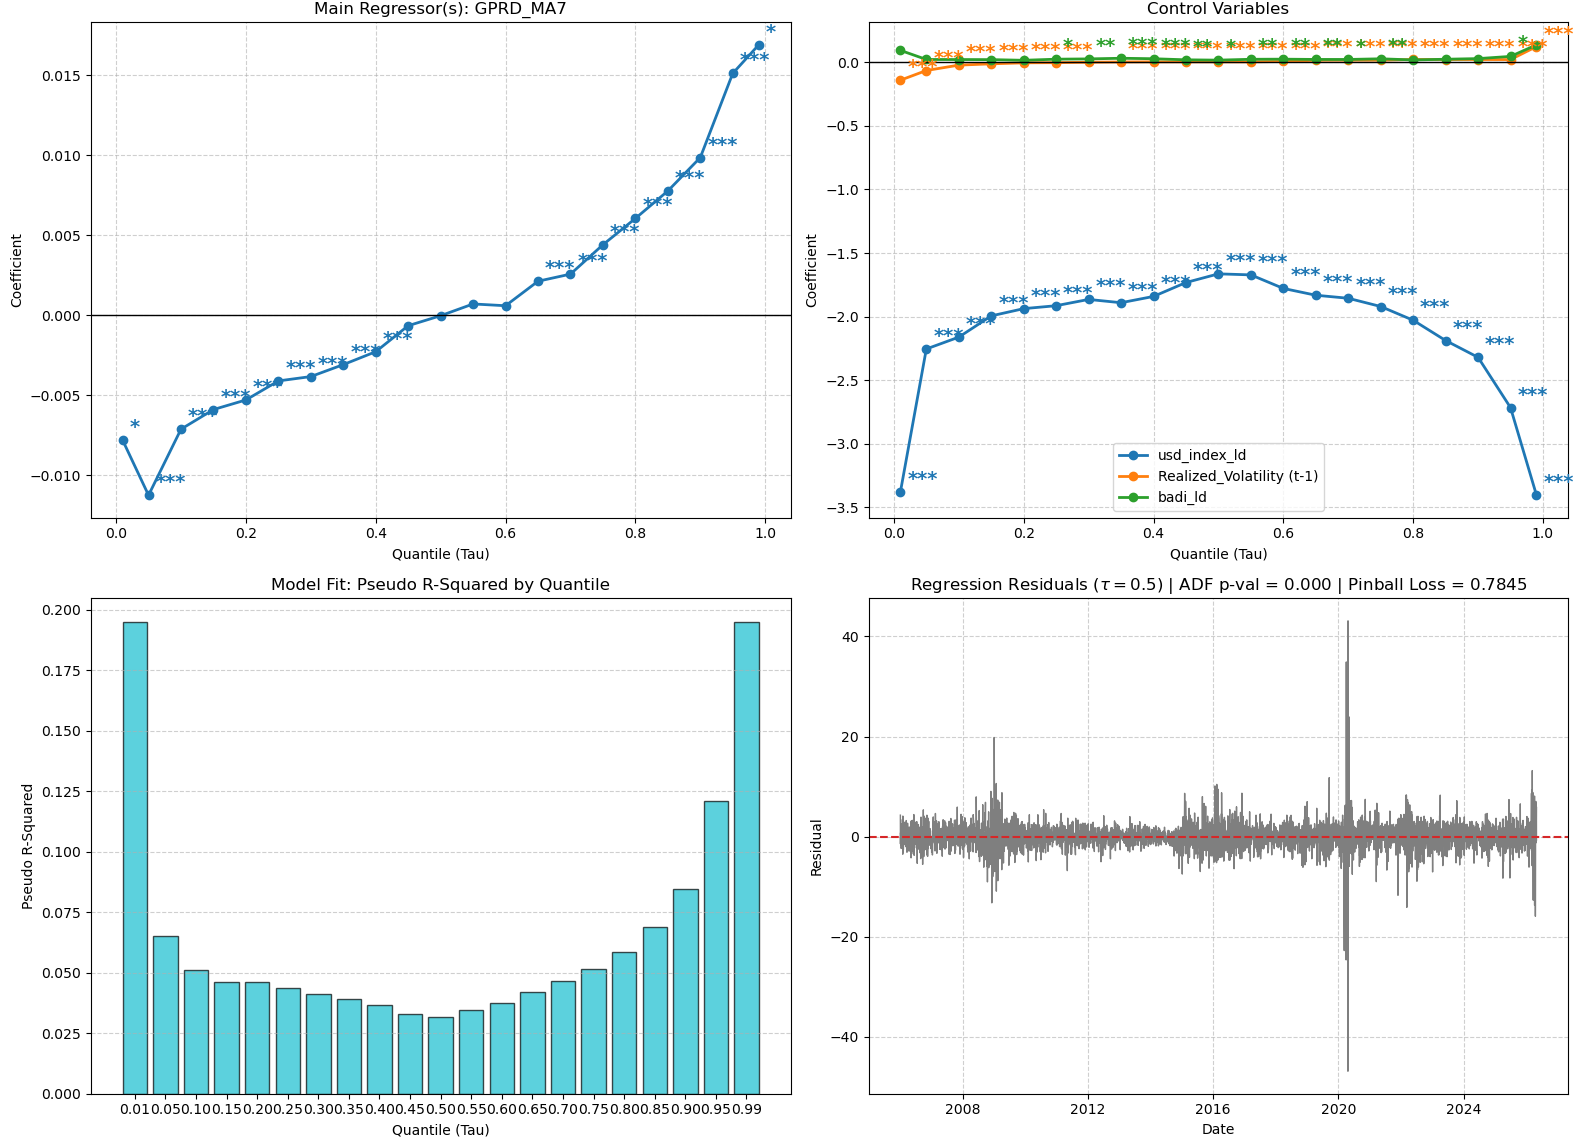
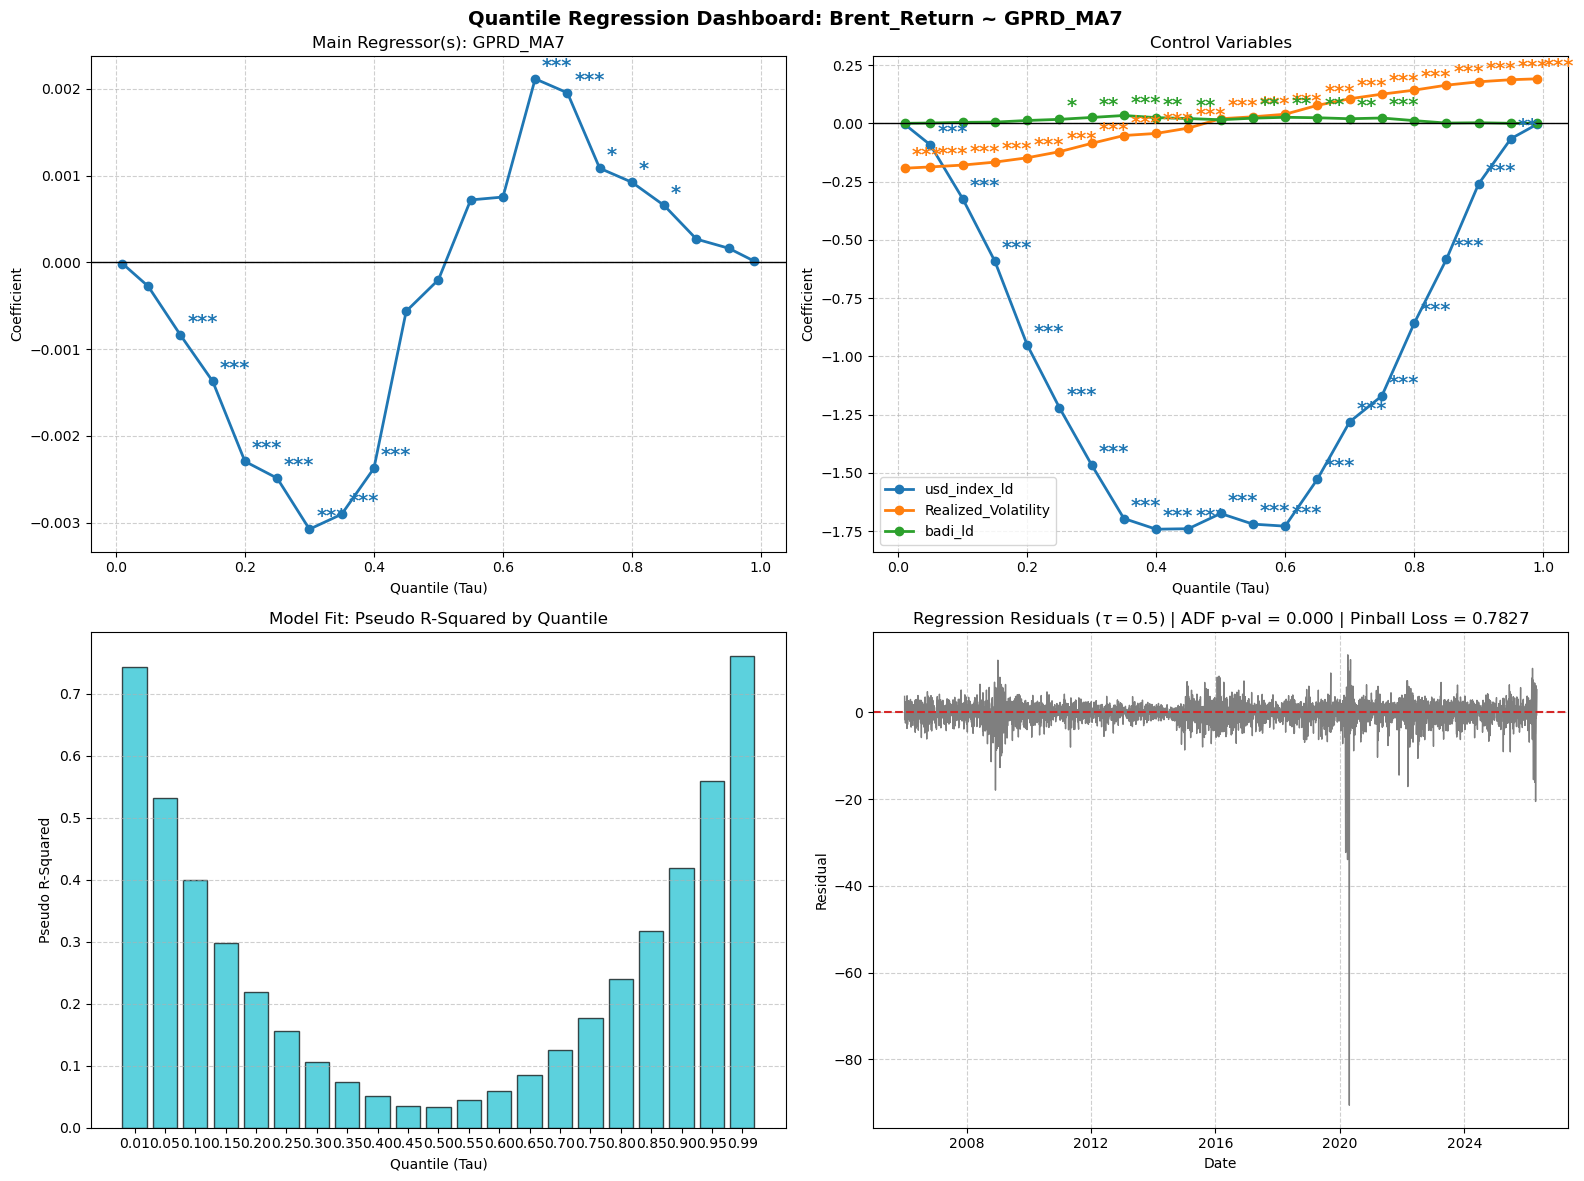
Final commit pre presentation

diff --git a/README.md b/README.md
@@ -1,0 +1,141 @@
+# Oil-at-Risk
+
+**A Framework for Studying Oil Price Vulnerabilities**
+
+Master Thesis (TFM) — MSc in Quantitative Economic Analysis (MQuEA), Universidad Autónoma de Madrid
+Author: **J. Alejandro Rodríguez Garrido**
+Supervisors: Diego Eduardo Fresoli and Pilar Poncela Blanco
+Academic Year 2025–2026 · Submission: June 2026
+
+---
+
+## Abstract
+
+Crude oil prices act as a key macroeconomic variable, often serving as a primary input in global inflation dynamics, industrial production costs, and international trade balances. The propagation of geopolitical tensions through energy markets can generate heightened volatility, which carries macroeconomic consequences and potential systemic risks for policymakers, firms, and institutional investors. Many traditional econometric approaches assume that the average historical effect of a geopolitical shock adequately represents the underlying stochastic process. However, in the context of crude oil prices and geopolitical shocks, where data tend to exhibit substantial heteroskedasticity, asymmetric responses, and influential tail observations that can distort linear estimates, this assumption may prove overly restrictive.
+
+To address the limitations of conditional mean forecasting, this research adapts the **Growth-at-Risk** framework (Adrian, Boyarchenko & Giannone, 2019) to model the distribution of future crude oil price growth. Rather than focusing solely on average baseline effects, the analysis estimates how fluctuations in geopolitical risk shift specific quantiles of the return distribution, capturing heterogeneity across outcomes and describing both downside and upside market risks. The empirical strategy relies on the European Brent crude oil spot price and a dictionary-based Geopolitical Risk Index. Drawing on daily returns and a set of control variables — including a realised-volatility proxy, the U.S. dollar index, and a shipping-cost measure — the study specifies multiple quantile regressions to isolate the tail-risk imprint of geopolitical uncertainty at a one-trading-week horizon. A backtesting framework combining the Kupiec unconditional-coverage test and the dynamic quantile test evaluates the conditional risk measures against realised outcomes, and an entropy-based indicator is examined for early-warning content. The full analytical pipeline is implemented in a self-contained, open-source Python module to promote replicability.
+
+**Keywords:** Geopolitical Risk, Brent Crude Oil, Quantile Regression, Growth-at-Risk, Tail Risk, Volatility, Johnson SU, CAViaR, Expected Shortfall, Kullback–Leibler Divergence.
+**JEL Codes:** C21, C22, C53, C58, F51, G17, Q43.
+
+---
+
+## What this project is
+
+**Oil-at-Risk (OaR)** adapts the Growth-at-Risk / Vulnerable Growth methodology to the crude oil market. The empirical pipeline is:
+
+1. **Conditioning variables** — geopolitical risk (GPR/GPRD), economic policy uncertainty (EPU), realised volatility, and other financial/macro controls are selected and preprocessed.
+2. **Quantile regression** of Brent returns on these risk factors, estimated at multiple quantile levels (5th, 10th, 25th percentiles, among others), including a CAViaR variant where the quantile process is autoregressive on past breaches.
+3. **Full conditional distribution** recovered by fitting a smooth density — Johnson SU or Azzalini & Capitanio skew-t — to the estimated quantiles via Minimum Distance Estimation, following Adrian et al. (2019).
+4. **Oil-at-Risk** read off the fitted lower tail at the target confidence level and forecast horizon (Value-at-Risk and Expected Shortfall / CVaR, both tails: OaR downside and GaR upside).
+5. **Entropy-based early warning system** — Kullback–Leibler tail divergence against a Normal baseline, tested as a leading indicator via cross-correlation and Granger causality.
+6. **Backtesting** — Kupiec unconditional coverage, Christoffersen conditional coverage/independence, the Engle–Manganelli dynamic quantile test, rolling-window pinball loss, and Diebold–Mariano tests for equal predictive accuracy across model variants.
+
+The full pipeline is implemented as a self-contained, tested, open-source Python package (`main_code/auxi/`) consumed by a series of Jupyter notebooks — the analysis surface, one notebook per research question.
+
+## Repository structure
+
+```
+TFM/
+├── main_code/              ← the Python package + notebooks (see below)
+├── data/                    ← raw inputs (data/raw/*.xlsx) and generated panels
+│   ├── raw/                 ← Brent, VOIL, GPR, EPU, REIA, BADI, controls, inflation, US oil stats
+│   ├── daily_panel.csv      ← merged daily panel (generated, cached)
+│   └── monthly_panel.csv    ← merged monthly panel (generated, cached)
+├── references/              ← the papers the methodology rests on, organized by topic
+│   ├── methodology/          Adrian et al. (2019), Azzalini & Capitanio (2003), ...
+│   ├── qreg/                 Koenker & Bassett (1978), Koenker inference, ...
+│   ├── qar models/           CAViaR, quantile autoregression
+│   ├── gpr/                  Caldara & Iacoviello geopolitical risk index
+│   ├── oil/                  oil price / macroeconomy literature
+│   ├── related literature/   geopolitical oil-price-risk applications
+│   └── risk managment/       Diebold, Gunther & Tay (1998)
+├── deliverable/              ← the written thesis and its component chapters
+│   ├── oil-at-risk.pdf        the full thesis
+│   ├── Methodology and specification.pdf, Direct_Forecasting.pdf,
+│   │   Distribution_Fitting.pdf, Risk_Metrics.pdf, EWS.pdf, Appendix.pdf
+│   ├── drafts/                 working drafts and figures
+│   └── proposal/               the original thesis proposal
+├── documentation/            ← supervisor approvals and administrative paperwork
+├── results/                  ← saved figures (results/plots/) and OOS output (results/oos/)
+└── _others/                   exploratory side analysis (tourism indicators, not part of OaR)
+```
+
+### `main_code/` — the empirical engine
+
+```
+main_code/
+├── auxi/                    ← BACKEND: importable Python package
+│   ├── qreg.py                quantile-regression engine + direct-forecasting estimators
+│   ├── caviar.py              CAViaR breach indicators (binary `_i` and severity `_s`, h-aware)
+│   ├── distribution_analysis.py  Johnson SU & skew-t fitters (MLE + MDE)
+│   ├── predictive_density.py  in-sample predictive density surface (Adrian et al. Fig. 1 replica)
+│   ├── risk_metrics.py / risk_metrics_boosted.py  VaR & CVaR, readable vs. vectorized
+│   ├── vulnerability_metrics.py  tail KL-divergence (entropy) & time-varying skewness
+│   ├── data.py                 FRED download, panel construction, `import_data`
+│   ├── descriptive.py          descriptive statistics, rolling-window selection
+│   └── diagnostics/            SUBPACKAGE: specification tests, forecast evaluation,
+│                                distribution goodness-of-fit, stationarity/trend tests
+├── *.ipynb                  ← FRONTEND: descriptive, specification, direct forecasting,
+│                                distribution analysis, risk metrics, common factors
+├── tests/                   ← pytest suite (synthetic-panel fixture + module tests)
+├── docs/superpowers/        ← design specs and implementation plans (the "why")
+└── context/                 ← persistent project memory (architecture, conventions,
+                                 decisions, known errors, glossary, workflow)
+```
+
+For a module-by-module map see `main_code/auxi/README.md`; for the full architectural write-up (data flow, dependency graph, design decisions) see `main_code/context/`.
+
+## Data
+
+- **Brent** crude spot price (FRED `DCOILBRENTEU`); returns are `pct_change() * 100`.
+- **GPR / GPRD** — Geopolitical Risk Index, daily variant (Caldara & Iacoviello).
+- **EPU** — Economic Policy Uncertainty index (Baker, Bloom & Davis).
+- **VOIL / OVX** and **VIX** — CBOE crude oil and equity volatility indices.
+- Additional controls in `data/raw/`: REIA, BADI (shipping-cost proxy), inflation rate, US oil production, US weekly stocks, weekly product supplied.
+
+`main_code/auxi/data.py` merges these into daily and monthly panels (`data/daily_panel.csv`, `data/monthly_panel.csv`), the single input every estimator consumes.
+
+## Running the code
+
+The backend has no packaged dependency file yet; the modules import `numpy`, `pandas`, `scipy`, `statsmodels`, `scikit-learn`, `matplotlib`, `seaborn`, `fredapi`, and `tqdm`. Install these in your environment, then from `main_code/`:
+
+```bash
+# run the test suite
+python -m pytest tests/ -v
+
+# open a notebook (Jupyter or JupyterLab)
+jupyter lab direct_forecasting.ipynb
+```
+
+Notebooks import the backend rather than redefining estimators inline (`import auxi.qreg as fc`, `import auxi.diagnostics as diags`); a "Restart Kernel → Run All" pass on a notebook is the project's integration/smoke test.
+
+## Deliverables
+
+The written thesis and its component chapters live in `deliverable/`:
+
+- `oil-at-risk.pdf` — the full thesis.
+- `Methodology and specification.pdf`, `Direct_Forecasting.pdf`, `Distribution_Fitting.pdf`, `Risk_Metrics.pdf`, `EWS.pdf`, `Appendix.pdf` — individual chapters/sections.
+- `proposal/` — the original thesis proposal and its presentation.
+- `drafts/` — working drafts, including supervisor correction rounds.
+
+Supervisor sign-off paperwork is in `documentation/`.
+
+## Key references
+
+| Reference | Role |
+|---|---|
+| Adrian, Boyarchenko & Giannone (2019), "Vulnerable Growth," *American Economic Review* 109(4) | Core Growth-at-Risk framework |
+| Engle & Manganelli (2004), "CAViaR," *Journal of Business & Economic Statistics* 22(4) | CAViaR specification and dynamic quantile test |
+| Koenker & Bassett (1978), "Regression Quantiles," *Econometrica* 46(1) | Quantile regression foundations |
+| Johnson (1949), "Systems of Frequency Curves," *Biometrika* 36(1/2) | Johnson SU distribution |
+| Azzalini & Capitanio (2003), skew-t distribution | Second candidate return density |
+| Kupiec (1995), "Verifying Risk Measurement Models," *Journal of Derivatives* 3(2) | Unconditional coverage test |
+| Christoffersen (1998), "Evaluating Interval Forecasts," *International Economic Review* 39(4) | Conditional coverage / independence test |
+| Diebold & Mariano (1995) | Equal predictive accuracy test |
+
+The full literature base is organized by topic under `references/`.
+
+## Project conventions
+
+This is an academic codebase: every modelling choice is traceable to a reference and named in the relevant module docstring, and reproducibility outranks cleverness. Backtests are lookahead-free by construction (breach bounds and OOS forecasts are always fit on the training slice only). See `main_code/context/conventions.md` and `main_code/context/decisions.md` for the full set of standing design decisions.